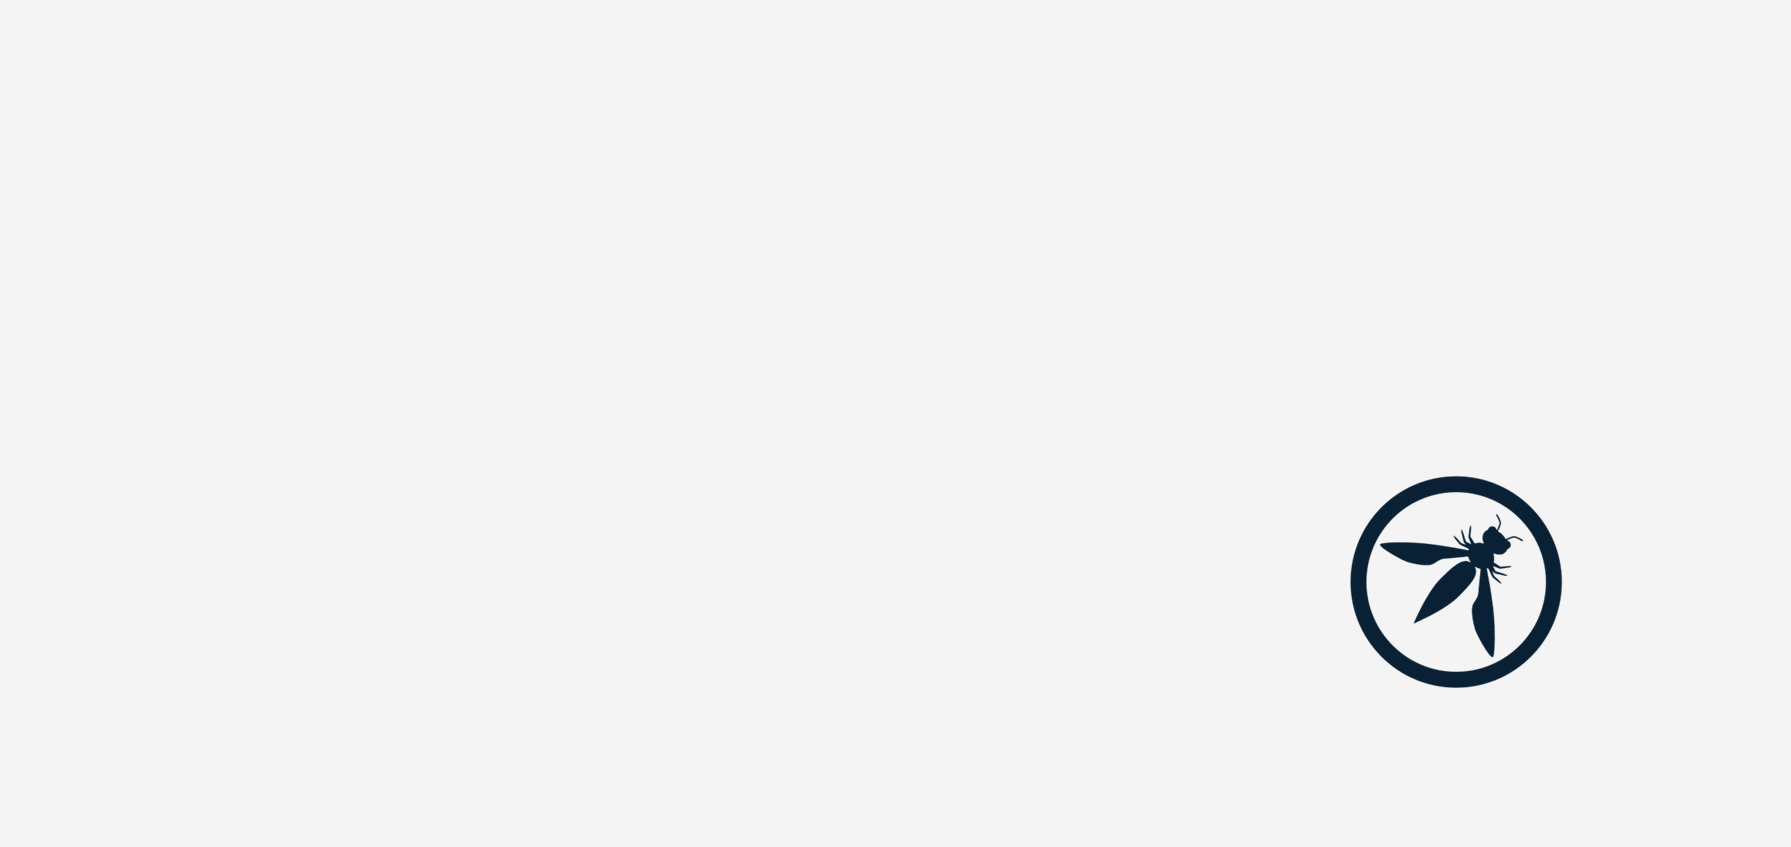
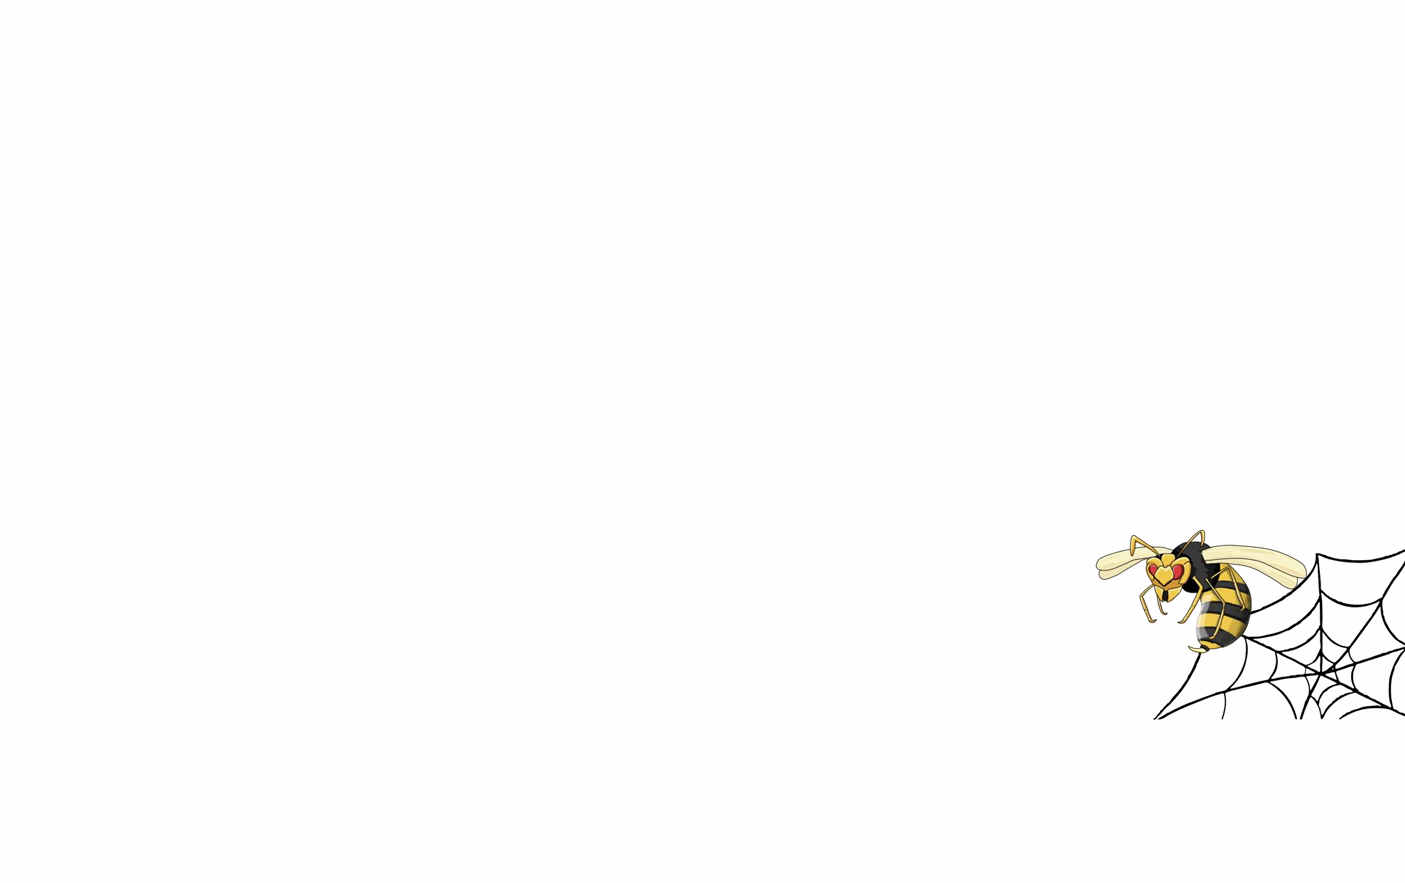
Updated bg

Changed region(s): [[0.7345, 0.5525, 1.0, 0.8288]]

diff --git a/level10/lv10-Vuln.php b/level10/lv10-Vuln.php
@@ -21,7 +21,7 @@ if (!isset($_SESSION['user_id'])) {
             <section class="content">
                 <h1 class="title">Level 10: </h1>
                 <br>
-                <p class="bodytext">Under development....
+                <p class="bodytext">Under development...
                 <p>
                 <br>
             </section>  
